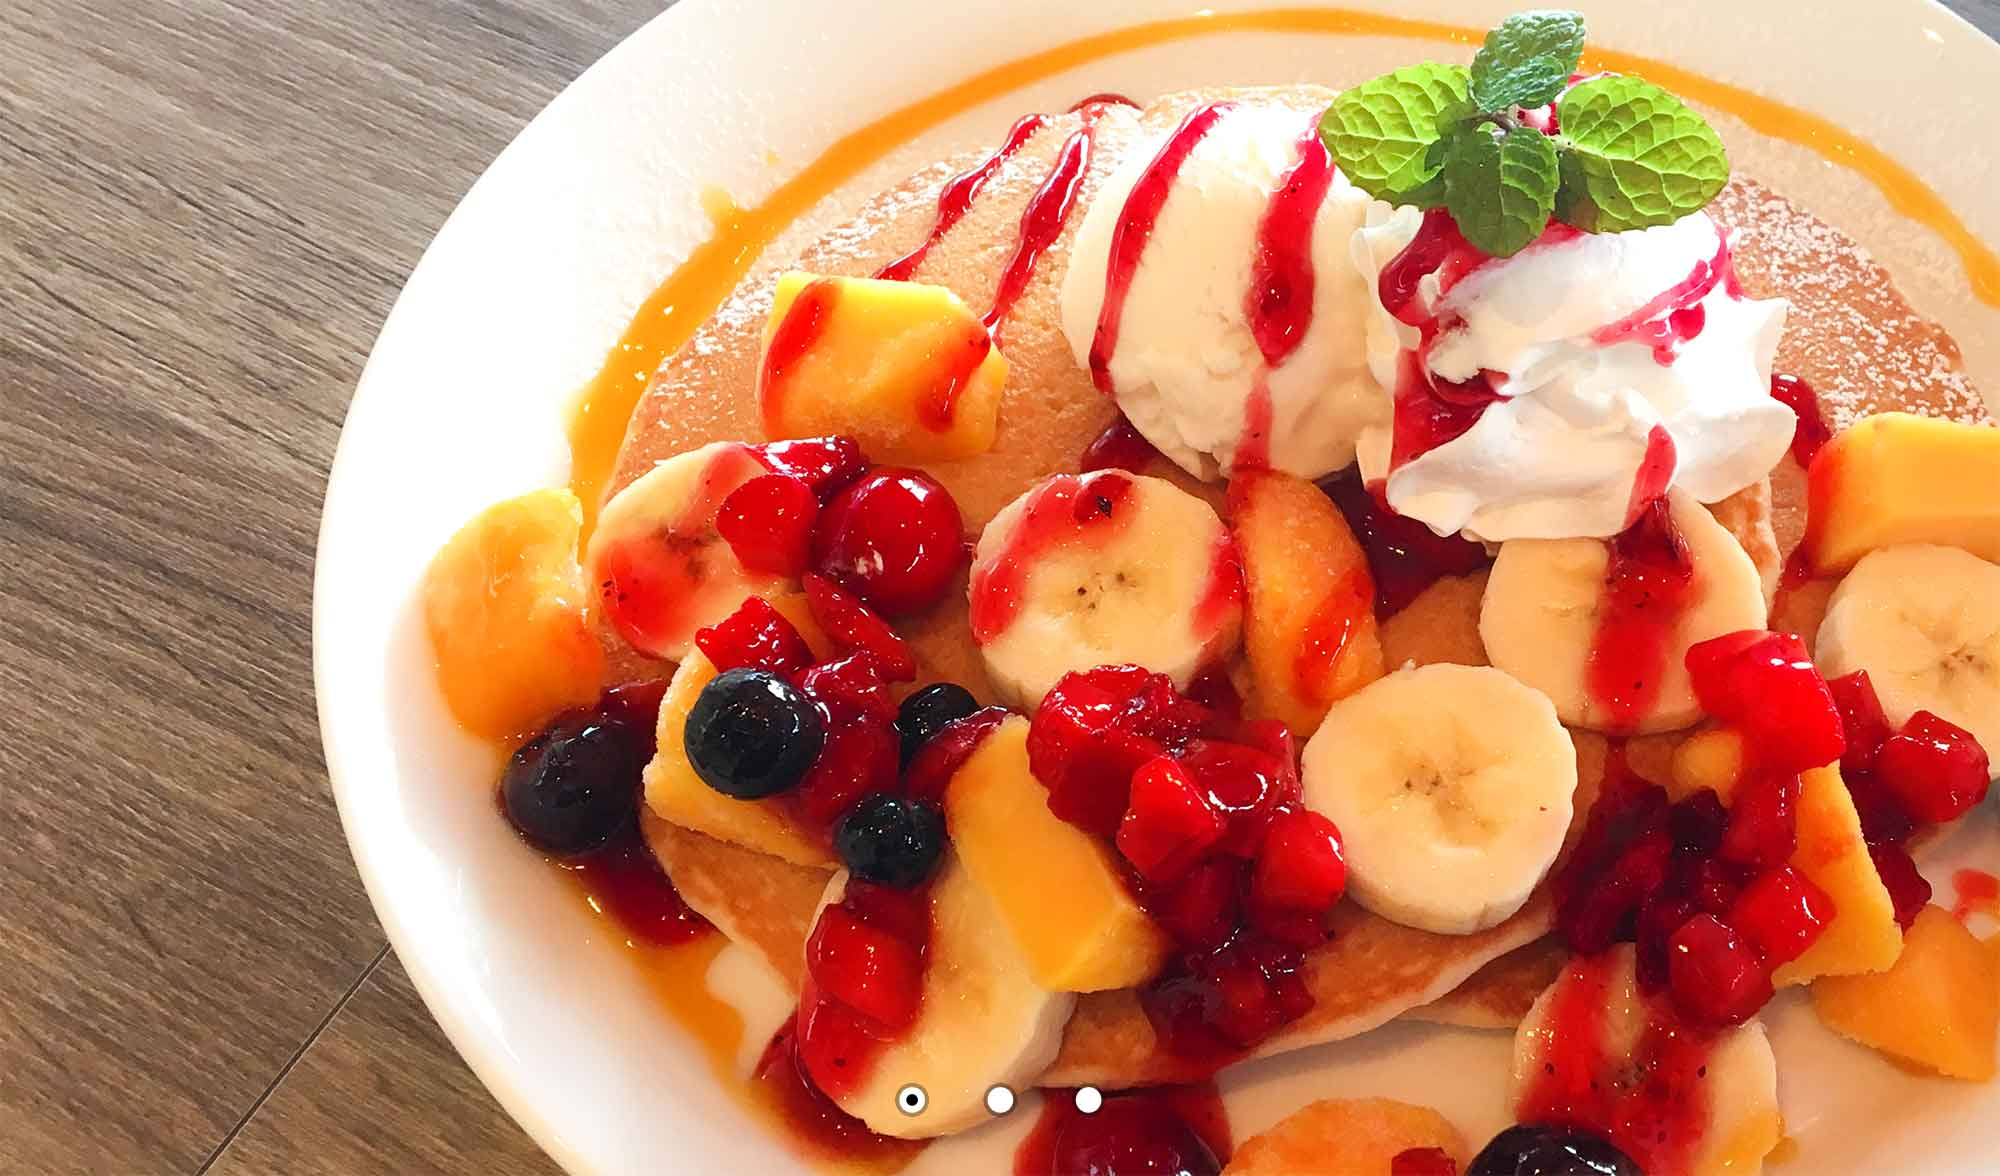
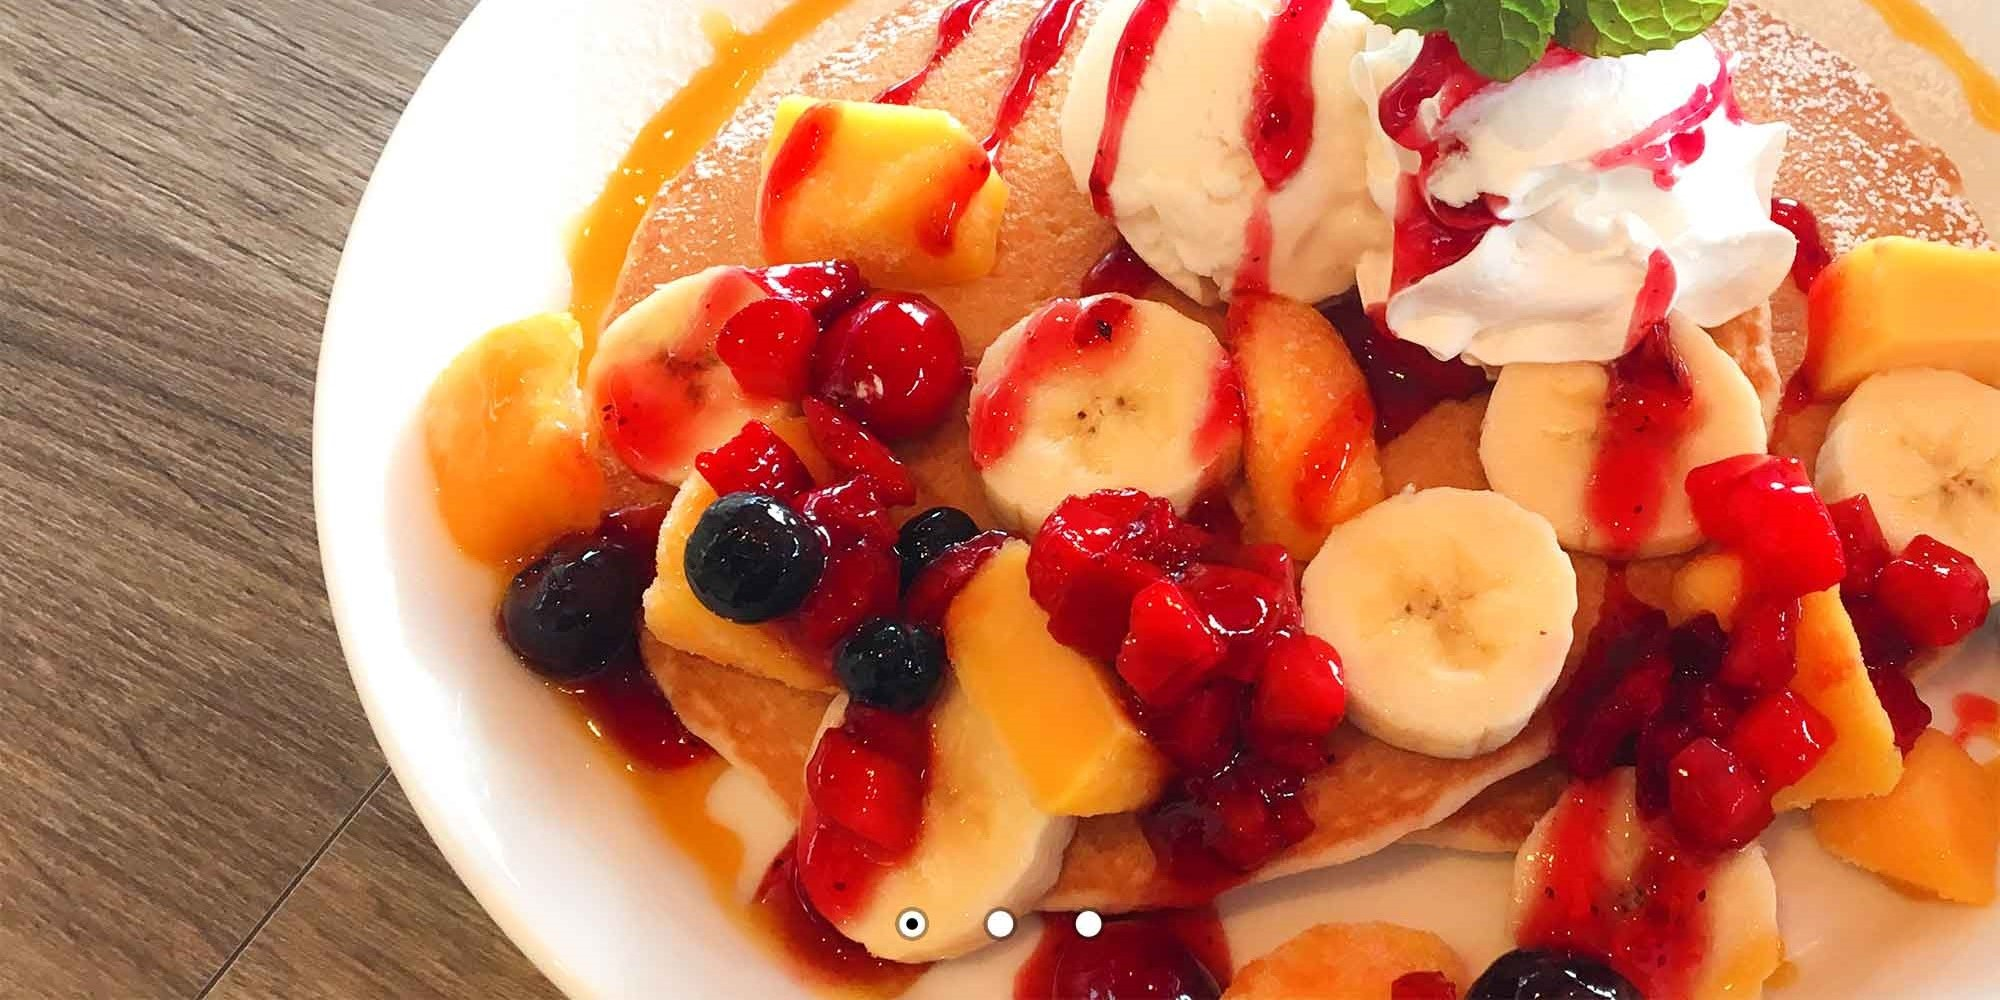
topslide変更

diff --git a/css/slide.css b/css/slide.css
@@ -36,6 +36,7 @@
 #mainimg {
 	clear: left;
 	width: 100%;
+	height: 100%;
 	margin: 0 auto;
 	position: relative;
 }
@@ -43,13 +44,13 @@
 #slide1,#slide2,#slide3 {
 	animation-duration: 15s;	/*実行する時間。「s」は秒の事。*/
 	animation-iteration-count:infinite;		/*実行する回数。「infinite」は無限に繰り返す意味。*/
-	position: absolute;left:0px;top:0px;width: 100%;height: auto;
+	position: absolute;left:0px;top:0px;width: 100%;height: 100%;
 	animation-fill-mode: both;
 	animation-delay: 1s;
 }
 /*土台画像*/
 #slide0 {
-	position: relative;width: 100%;height: auto;
+	position: relative;width: 100%;height: 100%;
 }
 /*１枚目*/
 #slide1 {
